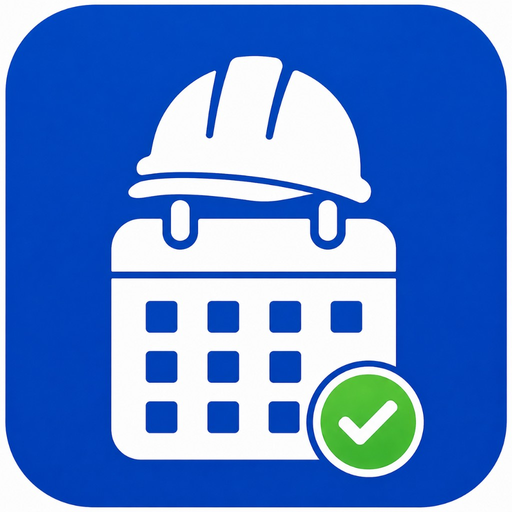
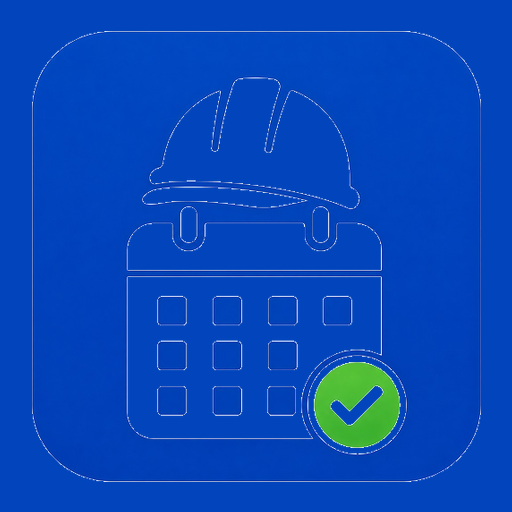
update19
アイコンの白余白を除去し、ホーム画面下部を予定画面と同じ構成に揃える。

diff --git a/components/dashboard/DashboardTodaySchedules.tsx b/components/dashboard/DashboardTodaySchedules.tsx
@@ -36,8 +36,22 @@ export function DashboardTodaySchedules({
     router.refresh();
   }
 
+  async function quickEnd(id: string) {
+    const supabase = createClient();
+    const now = nowISO();
+    await supabase
+      .from("schedules")
+      .update({
+        actual_end_time: now,
+        status: "completed",
+        updated_at: now,
+      })
+      .eq("id", id);
+    router.refresh();
+  }
+
   return (
-    <section className="mb-8">
+    <section className="mb-2">
       <h2 className="mb-4 text-xl font-bold text-gray-800">今日の予定</h2>
       <ul className="space-y-4">
         {schedules.map((s) => {
@@ -70,7 +84,7 @@ export function DashboardTodaySchedules({
                   </p>
                 ) : null}
                 {s.schedule_date === todayISO() && s.status !== "completed" ? (
-                  <div className="mt-4">
+                  <div className="mt-5 space-y-3">
                     <Button
                       type="button"
                       fullWidth
@@ -79,6 +93,18 @@ export function DashboardTodaySchedules({
                       onClick={() => quickStart(s.id)}
                     >
                       {s.status === "in_progress" ? "作業中です" : "作業を開始する"}
+                    </Button>
+                    <Button
+                      type="button"
+                      variant="secondary"
+                      fullWidth
+                      size="lg"
+                      disabled={
+                        !s.actual_start_time && s.status !== "in_progress"
+                      }
+                      onClick={() => quickEnd(s.id)}
+                    >
+                      作業を終了する
                     </Button>
                   </div>
                 ) : null}

diff --git a/app/manifest.ts b/app/manifest.ts
@@ -1,0 +1,26 @@
+import type { MetadataRoute } from "next";
+
+export default function manifest(): MetadataRoute.Manifest {
+  return {
+    name: "KenSapo",
+    short_name: "KenSapo",
+    description: "建設現場の日報・写真整理・AI報告書作成を一元化",
+    start_url: "/dashboard",
+    display: "standalone",
+    background_color: "#0144BC",
+    theme_color: "#0144BC",
+    icons: [
+      {
+        src: "/icon.png",
+        sizes: "512x512",
+        type: "image/png",
+      },
+      {
+        src: "/apple-icon.png",
+        sizes: "180x180",
+        type: "image/png",
+        purpose: "any",
+      },
+    ],
+  };
+}

diff --git a/app/(app)/dashboard/page.tsx b/app/(app)/dashboard/page.tsx
@@ -125,19 +125,19 @@ export default async function DashboardPage() {
           ) : null}
 
           {stats ? (
-            <DashboardTodaySchedules schedules={stats.todaySchedules} />
-          ) : null}
-
-          {stats ? (
             <DashboardSiteProgress
               summaries={stats.siteProgressSummaries}
             />
           ) : null}
 
-          {progressData ? <ProgressCharts data={progressData} /> : null}
+          {progressData ? (
+            <div className="mb-8 hidden sm:block">
+              <ProgressCharts data={progressData} />
+            </div>
+          ) : null}
 
           {stats && stats.latestPhotos.length > 0 ? (
-            <section className="mb-8">
+            <section className="mb-8 hidden sm:block">
               <h2 className="mb-4 text-xl font-bold text-gray-800">
                 最新の写真
               </h2>
@@ -161,7 +161,7 @@ export default async function DashboardPage() {
           ) : null}
 
           {stats && stats.latestReports.length > 0 ? (
-            <section className="mb-8">
+            <section className="mb-8 hidden sm:block">
               <h2 className="mb-4 text-xl font-bold text-gray-800">
                 最新の報告書
               </h2>
@@ -184,6 +184,10 @@ export default async function DashboardPage() {
                 ))}
               </ul>
             </section>
+          ) : null}
+
+          {stats ? (
+            <DashboardTodaySchedules schedules={stats.todaySchedules} />
           ) : null}
         </>
       )}

diff --git a/app/layout.tsx b/app/layout.tsx
@@ -1,4 +1,4 @@
-import type { Metadata } from "next";
+import type { Metadata, Viewport } from "next";
 import { Geist } from "next/font/google";
 import "./globals.css";
 
@@ -9,8 +9,16 @@ const geistSans = Geist({
 
 export const metadata: Metadata = {
   title: "KenSapo",
-  description:
-    "建設現場の日報・写真整理・AI報告書作成を一元化",
+  description: "建設現場の日報・写真整理・AI報告書作成を一元化",
+  appleWebApp: {
+    capable: true,
+    title: "KenSapo",
+    statusBarStyle: "default",
+  },
+};
+
+export const viewport: Viewport = {
+  themeColor: "#0144BC",
 };
 
 export default function RootLayout({

diff --git a/components/dashboard/ProgressCharts.tsx b/components/dashboard/ProgressCharts.tsx
@@ -31,8 +31,8 @@ export function ProgressCharts({ data }: { data: ProgressChartData }) {
           <h3 className="mb-4 text-base font-bold text-gray-600">
             現場の状態
           </h3>
-          <div className="h-52">
-            <ResponsiveContainer width="100%" height="100%">
+          <div className="h-52 min-w-0 overflow-hidden">
+            <ResponsiveContainer width="100%" height="100%" minWidth={0}>
               <PieChart>
                 <Pie
                   data={data.statusChart}
@@ -108,8 +108,8 @@ export function ProgressCharts({ data }: { data: ProgressChartData }) {
           <h3 className="mb-4 text-base font-bold text-gray-600">
             週ごとの日報提出数
           </h3>
-          <div className="h-48">
-            <ResponsiveContainer width="100%" height="100%">
+          <div className="h-48 min-w-0 overflow-hidden">
+            <ResponsiveContainer width="100%" height="100%" minWidth={0}>
               <BarChart data={data.weeklyReports}>
                 <XAxis dataKey="label" tick={{ fontSize: 14 }} />
                 <YAxis allowDecimals={false} tick={{ fontSize: 14 }} />

diff --git a/components/layout/AppShell.tsx b/components/layout/AppShell.tsx
@@ -46,15 +46,15 @@ export function AppShell({
         </div>
       </header>
 
-      <main className="mx-auto w-full max-w-lg flex-1 px-5 py-8 pb-28">
+      <main className="mx-auto w-full max-w-lg flex-1 overflow-x-hidden px-5 py-8 pb-[calc(7.5rem+env(safe-area-inset-bottom))]">
         {children}
       </main>
 
       <nav
-        className="fixed bottom-0 left-0 right-0 z-40 border-t-2 border-gray-200 bg-white pb-[env(safe-area-inset-bottom)]"
+        className="fixed bottom-0 left-0 right-0 z-40 border-t-2 border-gray-200 bg-white shadow-[0_-4px_16px_rgba(15,23,41,0.06)] pb-[env(safe-area-inset-bottom)]"
         aria-label="メインメニュー"
       >
-        <div className="mx-auto grid max-w-lg grid-cols-4 gap-2 px-3 py-3">
+        <div className="mx-auto grid max-w-lg grid-cols-4 gap-2 px-3 pb-3 pt-3">
           {navItems.map(({ href, label, Icon }) => {
             const active =
               pathname === href || pathname.startsWith(`${href}/`);

diff --git a/components/ui/Loading.tsx b/components/ui/Loading.tsx
@@ -4,7 +4,7 @@ export function LoadingScreen({
   message?: string;
 }) {
   return (
-    <div className="flex min-h-[50vh] flex-col items-center justify-center gap-5 px-6 text-center">
+    <div className="flex min-h-[calc(100dvh-13rem-env(safe-area-inset-bottom))] flex-col items-center justify-center gap-5 px-6 text-center">
       <div className="h-14 w-14 animate-spin rounded-full border-4 border-navy-900 border-t-transparent" />
       <p className="text-lg leading-relaxed text-gray-600">{message}</p>
     </div>